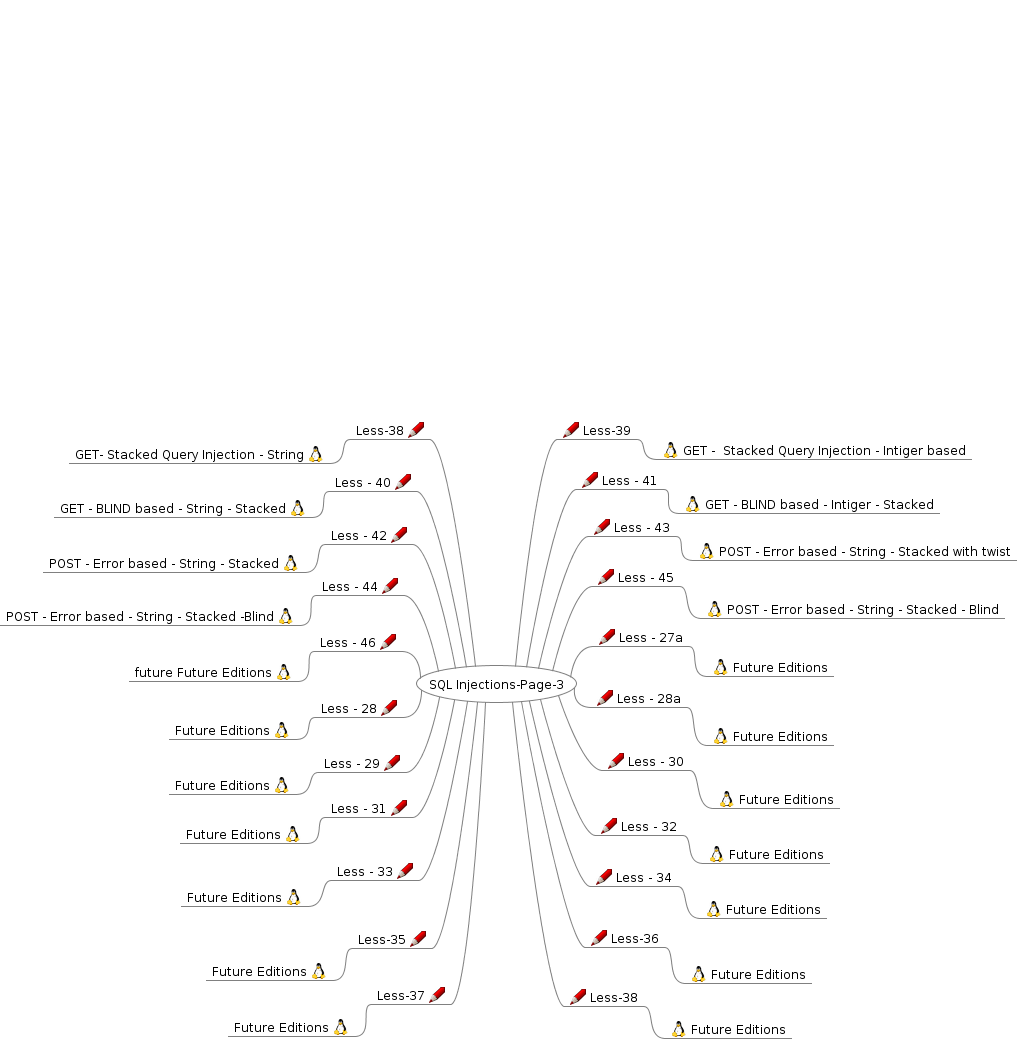
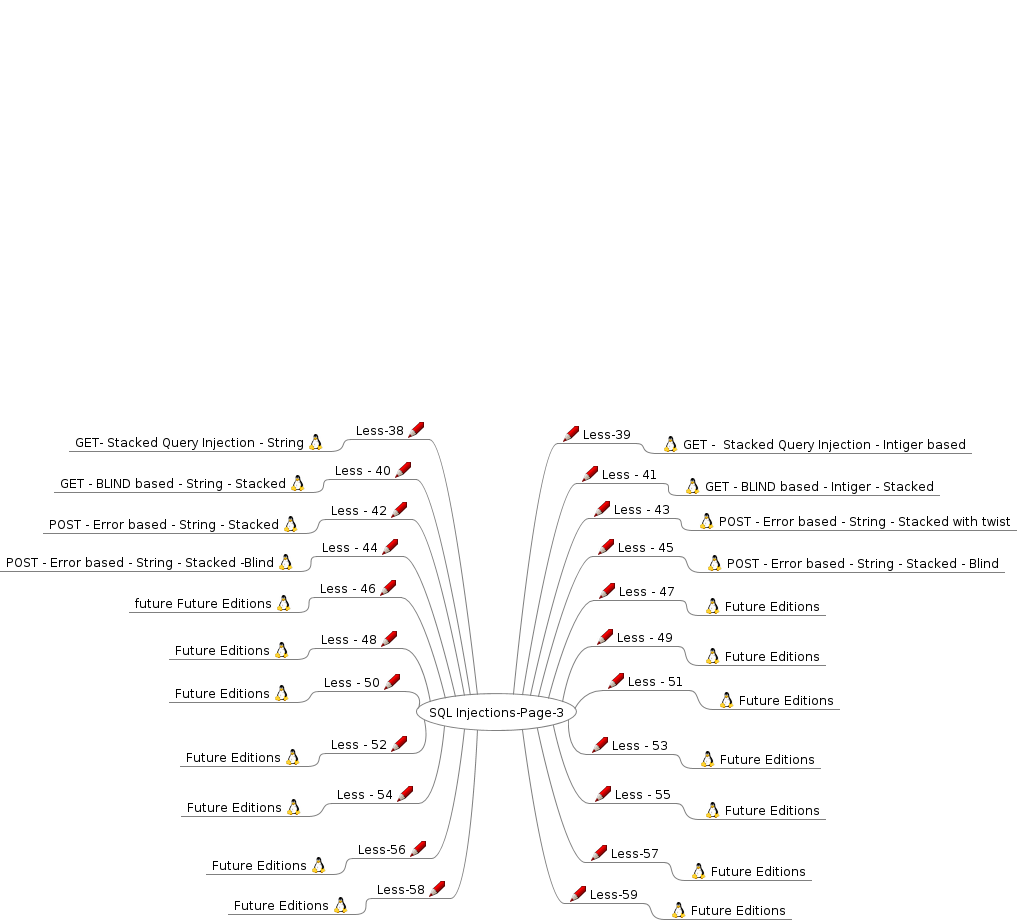
Fixing and adding 3rd index page

diff --git a/index-2.html b/index-2.html
@@ -23,7 +23,59 @@
                    };
                };
           
-          --></script></head><body><h1>SQL Injections-Page-3</h1><div style="width:96%;  padding:2%;  margin-bottom:10px;  border: 0px;  text-align:center;  vertical-align:center;"><img src="index-2.html_files/image.png" style="margin-bottom:10px; &#9;border: 0px; &#9;text-align:center; &#9;vertical-align:center;" alt="Imagemap" usemap="#fm_imagemap"/></div><map name="fm_imagemap" id="fm_imagemap"><area shape="rect" href="#FMID_1494913344FM" alt="SQL Injections-Page-3" title="SQL Injections-Page-3" coords="416,665,577,703" /><area shape="rect" href="#FMID_903641389FM" alt="Less-39" title="Less-39" coords="557,420,637,440" /><area shape="rect" href="#FMID_456038241FM" alt="GET -  Stacked Query Injection - Intiger ..." title="GET -  Stacked Query Injection - Intiger ..." coords="657,440,972,460" /><area shape="rect" href="#FMID_1198941000FM" alt="Less - 41" title="Less - 41" coords="576,470,664,490" /><area shape="rect" href="#FMID_85068748FM" alt="GET - BLIND based - Intiger - Stacked" title="GET - BLIND based - Intiger - Stacked" coords="679,494,940,514" /><area shape="rect" href="#FMID_194436165FM" alt="Less-38" title="Less-38" coords="350,420,430,440" /><area shape="rect" href="#FMID_1551007752FM" alt="GET- Stacked Query Injection - String" title="GET- Stacked Query Injection - String" coords="69,444,330,464" /><area shape="rect" href="#FMID_351889515FM" alt="Less - 40" title="Less - 40" coords="329,472,417,492" /><area shape="rect" href="#FMID_201265776FM" alt="GET - BLIND based - String - Stacked" title="GET - BLIND based - String - Stacked" coords="54,498,312,518" /><area shape="rect" href="#FMID_853573586FM" alt="Less - 43" title="Less - 43" coords="588,517,676,537" /><area shape="rect" href="#FMID_429405468FM" alt="POST - Error based - String - Stacked wi ..." title="POST - Error based - String - Stacked wi ..." coords="693,541,1017,561" /><area shape="rect" href="#FMID_117543297FM" alt="Less - 42" title="Less - 42" coords="325,525,413,545" /><area shape="rect" href="#FMID_831348399FM" alt="POST - Error based - String - Stacked" title="POST - Error based - String - Stacked" coords="43,553,305,573" /><area shape="rect" href="#FMID_1410936587FM" alt="Less - 45" title="Less - 45" coords="592,567,680,587" /><area shape="rect" href="#FMID_1403477223FM" alt="POST - Error based - String - Stacked -  ..." title="POST - Error based - String - Stacked -  ..." coords="701,599,1005,619" /><area shape="rect" href="#FMID_824569291FM" alt="Less - 44" title="Less - 44" coords="316,576,404,596" /><area shape="rect" href="#FMID_1830668257FM" alt="POST - Error based - String - Stacked -B ..." title="POST - Error based - String - Stacked -B ..." coords="0,606,300,626" /><area shape="rect" href="#FMID_188847598FM" alt="Less - 27a" title="Less - 27a" coords="593,627,689,647" /><area shape="rect" href="#FMID_1523865604FM" alt="Future Editions" title="Future Editions" coords="707,657,834,677" /><area shape="rect" href="#FMID_1523381996FM" alt="Less - 46" title="Less - 46" coords="314,632,402,652" /><area shape="rect" href="#FMID_1287016606FM" alt="future Future Editions" title="future Future Editions" coords="129,662,298,682" /><area shape="rect" href="#FMID_466917223FM" alt="Less - 28a" title="Less - 28a" coords="591,688,687,708" /><area shape="rect" href="#FMID_962658043FM" alt="Future Editions" title="Future Editions" coords="707,726,834,746" /><area shape="rect" href="#FMID_808975697FM" alt="Less - 28" title="Less - 28" coords="315,698,403,718" /><area shape="rect" href="#FMID_190240143FM" alt="Future Editions" title="Future Editions" coords="169,720,296,740" /><area shape="rect" href="#FMID_889999997FM" alt="Less - 30" title="Less - 30" coords="602,751,690,771" /><area shape="rect" href="#FMID_470682976FM" alt="Future Editions" title="Future Editions" coords="713,789,840,809" /><area shape="rect" href="#FMID_1208232472FM" alt="Less - 29" title="Less - 29" coords="318,753,406,773" /><area shape="rect" href="#FMID_778159028FM" alt="Future Editions" title="Future Editions" coords="169,775,296,795" /><area shape="rect" href="#FMID_1236630160FM" alt="Less - 32" title="Less - 32" coords="595,816,683,836" /><area shape="rect" href="#FMID_1831469301FM" alt="Future Editions" title="Future Editions" coords="703,844,830,864" /><area shape="rect" href="#FMID_1521023455FM" alt="Less - 31" title="Less - 31" coords="325,798,413,818" /><area shape="rect" href="#FMID_1620579356FM" alt="Future Editions" title="Future Editions" coords="180,824,307,844" /><area shape="rect" href="#FMID_1264770325FM" alt="Less - 34" title="Less - 34" coords="590,867,678,887" /><area shape="rect" href="#FMID_1399680041FM" alt="Future Editions" title="Future Editions" coords="700,899,827,919" /><area shape="rect" href="#FMID_371433913FM" alt="Less - 33" title="Less - 33" coords="331,861,419,881" /><area shape="rect" href="#FMID_1507876679FM" alt="Future Editions" title="Future Editions" coords="181,887,308,907" /><area shape="rect" href="#FMID_1025670211FM" alt="Less-36" title="Less-36" coords="585,928,665,948" /><area shape="rect" href="#FMID_586679887FM" alt="Future Editions" title="Future Editions" coords="685,964,812,984" /><area shape="rect" href="#FMID_622646021FM" alt="Less-35" title="Less-35" coords="352,929,432,949" /><area shape="rect" href="#FMID_1658696559FM" alt="Future Editions" title="Future Editions" coords="206,961,333,981" /><area shape="rect" href="#FMID_675480068FM" alt="Less-38" title="Less-38" coords="564,987,644,1007" /><area shape="rect" href="#FMID_471107631FM" alt="Future Editions" title="Future Editions" coords="665,1019,792,1039" /><area shape="rect" href="#FMID_38136745FM" alt="Less-37" title="Less-37" coords="371,985,451,1005" /><area shape="rect" href="#FMID_58695417FM" alt="Future Editions" title="Future Editions" coords="228,1017,355,1037" /></map>
-
-<div class="node"><img src="index-2.html_files/hide.png" class="hideshow" alt="hide" onClick="toggle(&quot;N65543&quot;)" id="imgN65543"/><a id="FMID_1494913344FM"/><div class="nodecontent">SQL Injections-Page-3</div><div class="content" id="N65543"><div class="node"><img src="index-2.html_files/hide.png" class="hideshow" alt="hide" onClick="toggle(&quot;N65549&quot;)" id="imgN65549"/><img src="index-2.html_files/icons/pencil.png" alt="pencil"/> <a id="FMID_903641389FM"/><div class="nodecontent">Less-39</div><div class="content" id="N65549"><div class="node"><img src="index-2.html_files/leaf.png" class="hideshow" alt="leaf"/><img src="index-2.html_files/icons/penguin.png" alt="penguin"/> <a id="FMID_456038241FM"/><div class="nodecontent">GET -  Stacked Query Injection - Intiger based</div></div></div></div><div class="node"><img src="index-2.html_files/hide.png" class="hideshow" alt="hide" onClick="toggle(&quot;N65573&quot;)" id="imgN65573"/><img src="index-2.html_files/icons/pencil.png" alt="pencil"/> <a id="FMID_1198941000FM"/><div class="nodecontent">Less - 41</div><div class="content" id="N65573"><div class="node"><img src="index-2.html_files/leaf.png" class="hideshow" alt="leaf"/><img src="index-2.html_files/icons/penguin.png" alt="penguin"/> <a id="FMID_85068748FM"/><div class="nodecontent">GET - BLIND based - Intiger - Stacked</div></div></div></div><div class="node"><img src="index-2.html_files/hide.png" class="hideshow" alt="hide" onClick="toggle(&quot;N65598&quot;)" id="imgN65598"/><img src="index-2.html_files/icons/pencil.png" alt="pencil"/> <a id="FMID_194436165FM"/><div class="nodecontent">Less-38</div><div class="content" id="N65598"><div class="node"><img src="index-2.html_files/leaf.png" class="hideshow" alt="leaf"/><img src="index-2.html_files/icons/penguin.png" alt="penguin"/> <a id="FMID_1551007752FM"/><div class="nodecontent">GET- Stacked Query Injection - String</div></div></div></div><div class="node"><img src="index-2.html_files/hide.png" class="hideshow" alt="hide" onClick="toggle(&quot;N65622&quot;)" id="imgN65622"/><img src="index-2.html_files/icons/pencil.png" alt="pencil"/> <a id="FMID_351889515FM"/><div class="nodecontent">Less - 40</div><div class="content" id="N65622"><div class="node"><img src="index-2.html_files/leaf.png" class="hideshow" alt="leaf"/><img src="index-2.html_files/icons/penguin.png" alt="penguin"/> <a id="FMID_201265776FM"/><div class="nodecontent">GET - BLIND based - String - Stacked</div></div></div></div><div class="node"><img src="index-2.html_files/hide.png" class="hideshow" alt="hide" onClick="toggle(&quot;N65648&quot;)" id="imgN65648"/><img src="index-2.html_files/icons/pencil.png" alt="pencil"/> <a id="FMID_853573586FM"/><div class="nodecontent">Less - 43</div><div class="content" id="N65648"><div class="node"><img src="index-2.html_files/leaf.png" class="hideshow" alt="leaf"/><img src="index-2.html_files/icons/penguin.png" alt="penguin"/> <a id="FMID_429405468FM"/><div class="nodecontent">POST - Error based - String - Stacked with twist</div></div></div></div><div class="node"><img src="index-2.html_files/hide.png" class="hideshow" alt="hide" onClick="toggle(&quot;N65673&quot;)" id="imgN65673"/><img src="index-2.html_files/icons/pencil.png" alt="pencil"/> <a id="FMID_117543297FM"/><div class="nodecontent">Less - 42</div><div class="content" id="N65673"><div class="node"><img src="index-2.html_files/leaf.png" class="hideshow" alt="leaf"/><img src="index-2.html_files/icons/penguin.png" alt="penguin"/> <a id="FMID_831348399FM"/><div class="nodecontent">POST - Error based - String - Stacked</div></div></div></div><div class="node"><img src="index-2.html_files/hide.png" class="hideshow" alt="hide" onClick="toggle(&quot;N65697&quot;)" id="imgN65697"/><img src="index-2.html_files/icons/pencil.png" alt="pencil"/> <a id="FMID_1410936587FM"/><div class="nodecontent">Less - 45</div><div class="content" id="N65697"><div class="node"><img src="index-2.html_files/leaf.png" class="hideshow" alt="leaf"/><img src="index-2.html_files/icons/penguin.png" alt="penguin"/> <a id="FMID_1403477223FM"/><div class="nodecontent" style="font-size:100%;">POST - Error based - String - Stacked - Blind</div></div></div></div><div class="node"><img src="index-2.html_files/hide.png" class="hideshow" alt="hide" onClick="toggle(&quot;N65726&quot;)" id="imgN65726"/><img src="index-2.html_files/icons/pencil.png" alt="pencil"/> <a id="FMID_824569291FM"/><div class="nodecontent">Less - 44</div><div class="content" id="N65726"><div class="node"><img src="index-2.html_files/leaf.png" class="hideshow" alt="leaf"/><img src="index-2.html_files/icons/penguin.png" alt="penguin"/> <a id="FMID_1830668257FM"/><div class="nodecontent">POST - Error based - String - Stacked -Blind</div></div></div></div><div class="node"><img src="index-2.html_files/hide.png" class="hideshow" alt="hide" onClick="toggle(&quot;N65751&quot;)" id="imgN65751"/><img src="index-2.html_files/icons/pencil.png" alt="pencil"/> <a id="FMID_188847598FM"/><div class="nodecontent">Less - 27a</div><div class="content" id="N65751"><div class="node"><img src="index-2.html_files/leaf.png" class="hideshow" alt="leaf"/><img src="index-2.html_files/icons/penguin.png" alt="penguin"/> <a id="FMID_1523865604FM"/><div class="nodecontent">Future Editions</div></div></div></div><div class="node"><img src="index-2.html_files/hide.png" class="hideshow" alt="hide" onClick="toggle(&quot;N65776&quot;)" id="imgN65776"/><img src="index-2.html_files/icons/pencil.png" alt="pencil"/> <a id="FMID_1523381996FM"/><div class="nodecontent">Less - 46</div><div class="content" id="N65776"><div class="node"><img src="index-2.html_files/leaf.png" class="hideshow" alt="leaf"/><img src="index-2.html_files/icons/penguin.png" alt="penguin"/> <a id="FMID_1287016606FM"/><div class="nodecontent">future Future Editions</div></div></div></div><div class="node"><img src="index-2.html_files/hide.png" class="hideshow" alt="hide" onClick="toggle(&quot;N65801&quot;)" id="imgN65801"/><img src="index-2.html_files/icons/pencil.png" alt="pencil"/> <a id="FMID_466917223FM"/><div class="nodecontent">Less - 28a</div><div class="content" id="N65801"><div class="node"><img src="index-2.html_files/leaf.png" class="hideshow" alt="leaf"/><img src="index-2.html_files/icons/penguin.png" alt="penguin"/> <a id="FMID_962658043FM"/><div class="nodecontent">Future Editions</div></div></div></div><div class="node"><img src="index-2.html_files/hide.png" class="hideshow" alt="hide" onClick="toggle(&quot;N65825&quot;)" id="imgN65825"/><img src="index-2.html_files/icons/pencil.png" alt="pencil"/> <a id="FMID_808975697FM"/><div class="nodecontent">Less - 28</div><div class="content" id="N65825"><div class="node"><img src="index-2.html_files/leaf.png" class="hideshow" alt="leaf"/><img src="index-2.html_files/icons/penguin.png" alt="penguin"/> <a id="FMID_190240143FM"/><div class="nodecontent">Future Editions</div></div></div></div><div class="node"><img src="index-2.html_files/hide.png" class="hideshow" alt="hide" onClick="toggle(&quot;N65850&quot;)" id="imgN65850"/><img src="index-2.html_files/icons/pencil.png" alt="pencil"/> <a id="FMID_889999997FM"/><div class="nodecontent">Less - 30</div><div class="content" id="N65850"><div class="node"><img src="index-2.html_files/leaf.png" class="hideshow" alt="leaf"/><img src="index-2.html_files/icons/penguin.png" alt="penguin"/> <a id="FMID_470682976FM"/><div class="nodecontent">Future Editions</div></div></div></div><div class="node"><img src="index-2.html_files/hide.png" class="hideshow" alt="hide" onClick="toggle(&quot;N65875&quot;)" id="imgN65875"/><img src="index-2.html_files/icons/pencil.png" alt="pencil"/> <a id="FMID_1208232472FM"/><div class="nodecontent">Less - 29</div><div class="content" id="N65875"><div class="node"><img src="index-2.html_files/leaf.png" class="hideshow" alt="leaf"/><img src="index-2.html_files/icons/penguin.png" alt="penguin"/> <a id="FMID_778159028FM"/><div class="nodecontent">Future Editions</div></div></div></div><div class="node"><img src="index-2.html_files/hide.png" class="hideshow" alt="hide" onClick="toggle(&quot;N65900&quot;)" id="imgN65900"/><img src="index-2.html_files/icons/pencil.png" alt="pencil"/> <a id="FMID_1236630160FM"/><div class="nodecontent">Less - 32</div><div class="content" id="N65900"><div class="node"><img src="index-2.html_files/leaf.png" class="hideshow" alt="leaf"/><img src="index-2.html_files/icons/penguin.png" alt="penguin"/> <a id="FMID_1831469301FM"/><div class="nodecontent">Future Editions</div></div></div></div><div class="node"><img src="index-2.html_files/hide.png" class="hideshow" alt="hide" onClick="toggle(&quot;N65924&quot;)" id="imgN65924"/><img src="index-2.html_files/icons/pencil.png" alt="pencil"/> <a id="FMID_1521023455FM"/><div class="nodecontent">Less - 31</div><div class="content" id="N65924"><div class="node"><img src="index-2.html_files/leaf.png" class="hideshow" alt="leaf"/><img src="index-2.html_files/icons/penguin.png" alt="penguin"/> <a id="FMID_1620579356FM"/><div class="nodecontent">Future Editions</div></div></div></div><div class="node"><img src="index-2.html_files/hide.png" class="hideshow" alt="hide" onClick="toggle(&quot;N65949&quot;)" id="imgN65949"/><img src="index-2.html_files/icons/pencil.png" alt="pencil"/> <a id="FMID_1264770325FM"/><div class="nodecontent">Less - 34</div><div class="content" id="N65949"><div class="node"><img src="index-2.html_files/leaf.png" class="hideshow" alt="leaf"/><img src="index-2.html_files/icons/penguin.png" alt="penguin"/> <a id="FMID_1399680041FM"/><div class="nodecontent">Future Editions</div></div></div></div><div class="node"><img src="index-2.html_files/hide.png" class="hideshow" alt="hide" onClick="toggle(&quot;N65974&quot;)" id="imgN65974"/><img src="index-2.html_files/icons/pencil.png" alt="pencil"/> <a id="FMID_371433913FM"/><div class="nodecontent">Less - 33</div><div class="content" id="N65974"><div class="node"><img src="index-2.html_files/leaf.png" class="hideshow" alt="leaf"/><img src="index-2.html_files/icons/penguin.png" alt="penguin"/> <a id="FMID_1507876679FM"/><div class="nodecontent">Future Editions</div></div></div></div><div class="node"><img src="index-2.html_files/hide.png" class="hideshow" alt="hide" onClick="toggle(&quot;N65999&quot;)" id="imgN65999"/><img src="index-2.html_files/icons/pencil.png" alt="pencil"/> <a id="FMID_1025670211FM"/><div class="nodecontent">Less-36</div><div class="content" id="N65999"><div class="node"><img src="index-2.html_files/leaf.png" class="hideshow" alt="leaf"/><img src="index-2.html_files/icons/penguin.png" alt="penguin"/> <a id="FMID_586679887FM"/><div class="nodecontent">Future Editions</div></div></div></div><div class="node"><img src="index-2.html_files/hide.png" class="hideshow" alt="hide" onClick="toggle(&quot;N66023&quot;)" id="imgN66023"/><img src="index-2.html_files/icons/pencil.png" alt="pencil"/> <a id="FMID_622646021FM"/><div class="nodecontent">Less-35</div><div class="content" id="N66023"><div class="node"><img src="index-2.html_files/leaf.png" class="hideshow" alt="leaf"/><img src="index-2.html_files/icons/penguin.png" alt="penguin"/> <a id="FMID_1658696559FM"/><div class="nodecontent">Future Editions</div></div></div></div><div class="node"><img src="index-2.html_files/hide.png" class="hideshow" alt="hide" onClick="toggle(&quot;N66048&quot;)" id="imgN66048"/><img src="index-2.html_files/icons/pencil.png" alt="pencil"/> <a id="FMID_675480068FM"/><div class="nodecontent">Less-38</div><div class="content" id="N66048"><div class="node"><img src="index-2.html_files/leaf.png" class="hideshow" alt="leaf"/><img src="index-2.html_files/icons/penguin.png" alt="penguin"/> <a id="FMID_471107631FM"/><div class="nodecontent">Future Editions</div></div></div></div><div class="node"><img src="index-2.html_files/hide.png" class="hideshow" alt="hide" onClick="toggle(&quot;N66073&quot;)" id="imgN66073"/><img src="index-2.html_files/icons/pencil.png" alt="pencil"/> <a id="FMID_38136745FM"/><div class="nodecontent">Less-37</div><div class="content" id="N66073"><div class="node"><img src="index-2.html_files/leaf.png" class="hideshow" alt="leaf"/><img src="index-2.html_files/icons/penguin.png" alt="penguin"/> <a id="FMID_58695417FM"/><div class="nodecontent">Future Editions</div></div></div></div></div></div>
+          --></script>
+</head>
+<body>
+<h1><a href="#fm_imagemap">SQL Injections-Page-3</a></h1>
+<a href="index.html">Back to Page-1</a><br><br> 
+<a href="index-1.html">Back to Page-2</a>
+<div style="width:96%;  padding:2%;  margin-bottom:10px;  border: 0px;  text-align:center;  vertical-align:center;"><img src="index-2.html_files/image.png" style="margin-bottom:10px; &#9;border: 0px; &#9;text-align:center; &#9;vertical-align:center;" alt="Imagemap" usemap="#fm_imagemap"/>
+</div>
+<map name="fm_imagemap" id="fm_imagemap">
+<area shape="rect" href="#FMID_1494913344FM" alt="SQL Injections-Page-3" title="SQL Injections-Page-3" coords="416,665,577,703" />
+<area shape="rect" href="Less-39" alt="Less-39" title="Less-39" coords="557,420,637,440" />
+<area shape="rect" href="Less-39" alt="GET -  Stacked Query Injection - Intiger ..." title="GET -  Stacked Query Injection - Intiger ..." coords="657,440,972,460" />
+<area shape="rect" href="Less-41" alt="Less - 41" title="Less - 41" coords="576,470,664,490" />
+<area shape="rect" href="Less-41" alt="GET - BLIND based - Intiger - Stacked" title="GET - BLIND based - Intiger - Stacked" coords="679,494,940,514" />
+<area shape="rect" href="Less-38" alt="Less-38" title="Less-38" coords="350,420,430,440" />
+<area shape="rect" href="Less-38" alt="GET- Stacked Query Injection - String" title="GET- Stacked Query Injection - String" coords="69,444,330,464" />
+<area shape="rect" href="Less-40" alt="Less - 40" title="Less - 40" coords="329,472,417,492" />
+<area shape="rect" href="Less-40" alt="GET - BLIND based - String - Stacked" title="GET - BLIND based - String - Stacked" coords="54,498,312,518" />
+<area shape="rect" href="Less-43" alt="Less - 43" title="Less - 43" coords="588,517,676,537" />
+<area shape="rect" href="Less-43" alt="POST - Error based - String - Stacked wi ..." title="POST - Error based - String - Stacked wi ..." coords="693,541,1017,561" />
+<area shape="rect" href="Less-42" alt="Less - 42" title="Less - 42" coords="325,525,413,545" />
+<area shape="rect" href="Less-42" alt="POST - Error based - String - Stacked" title="POST - Error based - String - Stacked" coords="43,553,305,573" />
+<area shape="rect" href="Less-45" alt="Less - 45" title="Less - 45" coords="592,567,680,587" />
+<area shape="rect" href="Less-45" alt="POST - Error based - String - Stacked -  ..." title="POST - Error based - String - Stacked -  ..." coords="701,599,1005,619" />
+<area shape="rect" href="Less-44" alt="Less - 44" title="Less - 44" coords="316,576,404,596" />
+<area shape="rect" href="Less-44" alt="POST - Error based - String - Stacked -B ..." title="POST - Error based - String - Stacked -B ..." coords="0,606,300,626" />
+<area shape="rect" href="#FMID_188847598FM" alt="Less - 47" title="Less - 47" coords="593,627,689,647" />
+<area shape="rect" href="#FMID_1523865604FM" alt="Future Editions" title="Future Editions" coords="707,657,834,677" />
+<area shape="rect" href="#FMID_1523381996FM" alt="Less - 46" title="Less - 46" coords="314,632,402,652" />
+<area shape="rect" href="#FMID_1287016606FM" alt="future Future Editions" title="future Future Editions" coords="129,662,298,682" />
+<area shape="rect" href="#FMID_466917223FM" alt="Less - 49" title="Less - 49" coords="591,688,687,708" />
+<area shape="rect" href="#FMID_962658043FM" alt="Future Editions" title="Future Editions" coords="707,726,834,746" />
+<area shape="rect" href="#FMID_808975697FM" alt="Less - 48" title="Less - 48" coords="315,698,403,718" />
+<area shape="rect" href="#FMID_190240143FM" alt="Future Editions" title="Future Editions" coords="169,720,296,740" />
+<area shape="rect" href="#FMID_889999997FM" alt="Less - 49" title="Less - 49" coords="602,751,690,771" />
+<area shape="rect" href="#FMID_470682976FM" alt="Future Editions" title="Future Editions" coords="713,789,840,809" />
+<area shape="rect" href="#FMID_1208232472FM" alt="Less - 50" title="Less - 50" coords="318,753,406,773" />
+<area shape="rect" href="#FMID_778159028FM" alt="Future Editions" title="Future Editions" coords="169,775,296,795" />
+<area shape="rect" href="#FMID_1236630160FM" alt="Less - 53" title="Less - 53" coords="595,816,683,836" />
+<area shape="rect" href="#FMID_1831469301FM" alt="Future Editions" title="Future Editions" coords="703,844,830,864" />
+<area shape="rect" href="#FMID_1521023455FM" alt="Less - 52" title="Less - 52" coords="325,798,413,818" />
+<area shape="rect" href="#FMID_1620579356FM" alt="Future Editions" title="Future Editions" coords="180,824,307,844" />
+<area shape="rect" href="#FMID_1264770325FM" alt="Less - 55" title="Less - 55" coords="590,867,678,887" />
+<area shape="rect" href="#FMID_1399680041FM" alt="Future Editions" title="Future Editions" coords="700,899,827,919" />
+<area shape="rect" href="#FMID_371433913FM" alt="Less - 54" title="Less - 54" coords="331,861,419,881" />
+<area shape="rect" href="#FMID_1507876679FM" alt="Future Editions" title="Future Editions" coords="181,887,308,907" />
+<area shape="rect" href="#FMID_1025670211FM" alt="Less-57" title="Less-57" coords="585,928,665,948" />
+<area shape="rect" href="#FMID_586679887FM" alt="Future Editions" title="Future Editions" coords="685,964,812,984" />
+<area shape="rect" href="#FMID_622646021FM" alt="Less-56" title="Less-56" coords="352,929,432,949" />
+<area shape="rect" href="#FMID_1658696559FM" alt="Future Editions" title="Future Editions" coords="206,961,333,981" />
+<area shape="rect" href="#FMID_675480068FM" alt="Less-59" title="Less-59" coords="564,987,644,1007" />
+<area shape="rect" href="#FMID_471107631FM" alt="Future Editions" title="Future Editions" coords="665,1019,792,1039" />
+<area shape="rect" href="#FMID_38136745FM" alt="Less-58" title="Less-58" coords="371,985,451,1005" />
+<area shape="rect" href="#FMID_58695417FM" alt="Future Editions" title="Future Editions" coords="228,1017,355,1037" />
+</map>
 </body></html>

diff --git a/index.html b/index.html
@@ -27,9 +27,10 @@
 </script>
 </head>
 <body>
-<h1>SQL Injections   Page-1</h1>
+<h1><a href="#fm_imagemap">SQL Injections   Page-1</a></h1>
 <a href="sql-connections/setup-db.php">Setup/reset Database for labs</a></br></br>
-<a href="index-1.html">Page-2 Advanced Injections</a>
+<a href="index-1.html">Page-2 Advanced Injections</a></br></br>
+<a href="index-2.html">Page-3 Advanced Injections</a>
 
 <div style="width:96%;  padding:2%;  margin-bottom:10px;  border: 0px;  text-align:center;  vertical-align:center;">
 <img src="index.html_files/image.png" style="margin-bottom:10px; &#9;border: 0px; &#9;text-align:center; &#9;vertical-align:center;" alt="Imagemap" usemap="#fm_imagemap"/>

diff --git a/index-1.html b/index-1.html
@@ -26,8 +26,9 @@
           --></script>
 </head>
 <body>
-<h1>SQL Injections  Page-2</h1>
-<a href="index.html">Back to Page-1</a> 
+<h1><a href="#fm_imagemap">SQL Injections  Page-2</a></h1>
+<a href="index.html">Back to Page-1</a><br><br>
+<a href="index-2.html">Page-3 Advanced Injections</a> 
 <div style="width:96%;  padding:2%;  margin-bottom:10px;  border: 0px;  text-align:center;  vertical-align:center;"><img src="index-1.html_files/image.png" style="margin-bottom:10px; &#9;border: 0px; &#9;text-align:center; &#9;vertical-align:center;" alt="Imagemap" usemap="#fm_imagemap"/>
 </div>
 <map name="fm_imagemap" id="fm_imagemap">

diff --git a/SQL Injections-2.mm b/SQL Injections-2.mm
@@ -1,4 +1,4 @@
-<map version="0.9.0">
+<map version="1.0.1">
 <!-- To view this file, download free mind mapping software FreeMind from http://freemind.sourceforge.net -->
 <node CREATED="1324136400104" ID="ID_1494913344" MODIFIED="1368735638584" TEXT="SQL Injections-Page-3">
 <node CREATED="1324136425237" HGAP="-20" ID="ID_903641389" MODIFIED="1368736585734" POSITION="right" TEXT="Less-39" VSHIFT="25">
@@ -50,7 +50,7 @@
 <icon BUILTIN="penguin"/>
 </node>
 </node>
-<node CREATED="1324137714364" HGAP="16" ID="ID_188847598" MODIFIED="1369601111523" POSITION="right" TEXT="Less - 27a" VSHIFT="4">
+<node CREATED="1324137714364" HGAP="16" ID="ID_188847598" MODIFIED="1384111540191" POSITION="right" TEXT="Less - 47" VSHIFT="4">
 <icon BUILTIN="pencil"/>
 <node CREATED="1324137878394" HGAP="18" ID="ID_1523865604" MODIFIED="1369602866584" TEXT="Future Editions" VSHIFT="17">
 <icon BUILTIN="penguin"/>
@@ -62,73 +62,73 @@
 <icon BUILTIN="penguin"/>
 </node>
 </node>
-<node CREATED="1337259455429" HGAP="14" ID="ID_466917223" MODIFIED="1352118865949" POSITION="right" TEXT="Less - 28a" VSHIFT="8">
+<node CREATED="1337259455429" HGAP="14" ID="ID_466917223" MODIFIED="1384111557351" POSITION="right" TEXT="Less - 49" VSHIFT="8">
 <icon BUILTIN="pencil"/>
 <node CREATED="1337259473888" ID="ID_962658043" MODIFIED="1369602862817" TEXT="Future Editions" VSHIFT="21">
 <icon BUILTIN="penguin"/>
 </node>
 </node>
-<node CREATED="1337259571346" HGAP="13" ID="ID_808975697" MODIFIED="1352118853255" POSITION="left" TEXT="Less - 28" VSHIFT="-9">
+<node CREATED="1337259571346" HGAP="13" ID="ID_808975697" MODIFIED="1384111546502" POSITION="left" TEXT="Less - 48" VSHIFT="-9">
 <icon BUILTIN="pencil"/>
 <node CREATED="1337259649440" HGAP="19" ID="ID_190240143" MODIFIED="1369602882875" TEXT="Future Editions" VSHIFT="13">
 <icon BUILTIN="penguin"/>
 </node>
 </node>
-<node CREATED="1337259743007" HGAP="25" ID="ID_889999997" MODIFIED="1354483118095" POSITION="right" TEXT="Less - 30" VSHIFT="2">
+<node CREATED="1337259743007" HGAP="25" ID="ID_889999997" MODIFIED="1384111585635" POSITION="right" TEXT="Less - 51" VSHIFT="2">
 <icon BUILTIN="pencil"/>
 <node CREATED="1337260036723" HGAP="23" ID="ID_470682976" MODIFIED="1369602858170" TEXT="Future Editions" VSHIFT="21">
 <icon BUILTIN="penguin"/>
 </node>
 </node>
-<node CREATED="1337259745713" HGAP="10" ID="ID_1208232472" MODIFIED="1354447785882" POSITION="left" TEXT="Less - 29" VSHIFT="1">
+<node CREATED="1337259745713" HGAP="10" ID="ID_1208232472" MODIFIED="1384111572575" POSITION="left" TEXT="Less - 50" VSHIFT="-28">
 <icon BUILTIN="pencil"/>
 <node CREATED="1337260017152" HGAP="22" ID="ID_778159028" MODIFIED="1369602879434" TEXT="Future Editions" VSHIFT="13">
 <icon BUILTIN="penguin"/>
 </node>
 </node>
-<node CREATED="1337259760351" HGAP="18" ID="ID_1236630160" MODIFIED="1354483238450" POSITION="right" TEXT="Less - 32" VSHIFT="4">
+<node CREATED="1337259760351" HGAP="9" ID="ID_1236630160" MODIFIED="1384112356284" POSITION="right" TEXT="Less - 53" VSHIFT="22">
 <icon BUILTIN="pencil"/>
 <node CREATED="1337260042429" ID="ID_1831469301" MODIFIED="1369602854866" TEXT="Future Editions" VSHIFT="16">
 <icon BUILTIN="penguin"/>
 </node>
 </node>
-<node CREATED="1337259762765" HGAP="3" ID="ID_1521023455" MODIFIED="1354483122526" POSITION="left" TEXT="Less - 31" VSHIFT="-14">
+<node CREATED="1337259762765" HGAP="3" ID="ID_1521023455" MODIFIED="1384112325394" POSITION="left" TEXT="Less - 52" VSHIFT="-14">
 <icon BUILTIN="pencil"/>
 <node CREATED="1337260056500" HGAP="18" ID="ID_1620579356" MODIFIED="1369602888525" TEXT="Future Editions" VSHIFT="15">
 <icon BUILTIN="penguin"/>
 </node>
 </node>
-<node CREATED="1337259768974" HGAP="13" ID="ID_1264770325" MODIFIED="1354483249462" POSITION="right" TEXT="Less - 34" VSHIFT="-1">
+<node CREATED="1337259768974" HGAP="12" ID="ID_1264770325" MODIFIED="1384112361599" POSITION="right" TEXT="Less - 55" VSHIFT="12">
 <icon BUILTIN="pencil"/>
 <node CREATED="1337260049111" HGAP="22" ID="ID_1399680041" MODIFIED="1369602849757" TEXT="Future Editions" VSHIFT="18">
 <icon BUILTIN="penguin"/>
 </node>
 </node>
-<node CREATED="1337259771723" HGAP="-3" ID="ID_371433913" MODIFIED="1354483152433" POSITION="left" TEXT="Less - 33" VSHIFT="-19">
+<node CREATED="1337259771723" HGAP="-3" ID="ID_371433913" MODIFIED="1384112365872" POSITION="left" TEXT="Less - 54" VSHIFT="-19">
 <icon BUILTIN="pencil"/>
 <node CREATED="1337260061967" HGAP="23" ID="ID_1507876679" MODIFIED="1369602845060" TEXT="Future Editions" VSHIFT="15">
 <icon BUILTIN="penguin"/>
 </node>
 </node>
-<node CREATED="1337286635272" HGAP="8" ID="ID_1025670211" MODIFIED="1354483293657" POSITION="right" TEXT="Less-36" VSHIFT="5">
+<node CREATED="1337286635272" HGAP="8" ID="ID_1025670211" MODIFIED="1384112383819" POSITION="right" TEXT="Less-57" VSHIFT="20">
 <icon BUILTIN="pencil"/>
 <node CREATED="1337286752435" ID="ID_586679887" MODIFIED="1369601228742" TEXT="Future Editions" VSHIFT="20">
 <icon BUILTIN="penguin"/>
 </node>
 </node>
-<node CREATED="1337286664875" HGAP="-16" ID="ID_622646021" MODIFIED="1354483261494" POSITION="left" TEXT="Less-35" VSHIFT="-1">
+<node CREATED="1337286664875" HGAP="-16" ID="ID_622646021" MODIFIED="1384112378751" POSITION="left" TEXT="Less-56" VSHIFT="-1">
 <icon BUILTIN="pencil"/>
 <node CREATED="1337286733038" HGAP="19" ID="ID_1658696559" MODIFIED="1369601267248" TEXT="Future Editions" VSHIFT="18">
 <icon BUILTIN="penguin"/>
 </node>
 </node>
-<node CREATED="1337286811307" HGAP="-13" ID="ID_675480068" MODIFIED="1354483306552" POSITION="right" TEXT="Less-38" VSHIFT="-184">
+<node CREATED="1337286811307" HGAP="-13" ID="ID_675480068" MODIFIED="1384112400279" POSITION="right" TEXT="Less-59" VSHIFT="-184">
 <icon BUILTIN="pencil"/>
 <node CREATED="1337287084942" HGAP="21" ID="ID_471107631" MODIFIED="1337342719626" TEXT="Future Editions" VSHIFT="18">
 <icon BUILTIN="penguin"/>
 </node>
 </node>
-<node CREATED="1337286920172" HGAP="-35" ID="ID_38136745" MODIFIED="1354483299766" POSITION="left" TEXT="Less-37" VSHIFT="-500">
+<node CREATED="1337286920172" HGAP="-35" ID="ID_38136745" MODIFIED="1384112395115" POSITION="left" TEXT="Less-58" VSHIFT="-500">
 <icon BUILTIN="pencil"/>
 <node CREATED="1337287063065" HGAP="16" ID="ID_58695417" MODIFIED="1369602894169" TEXT="Future Editions" VSHIFT="18">
 <icon BUILTIN="penguin"/>
